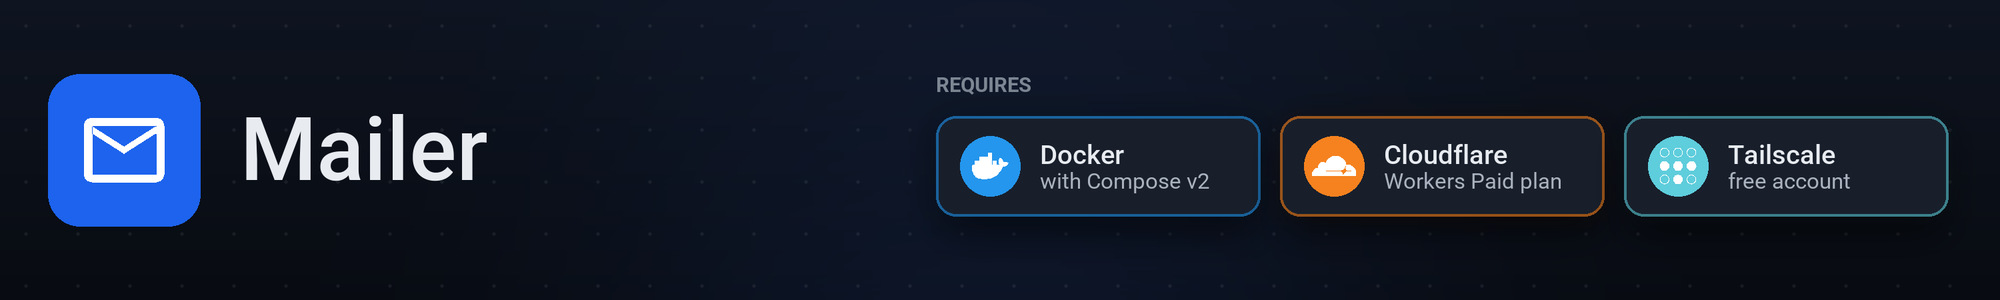
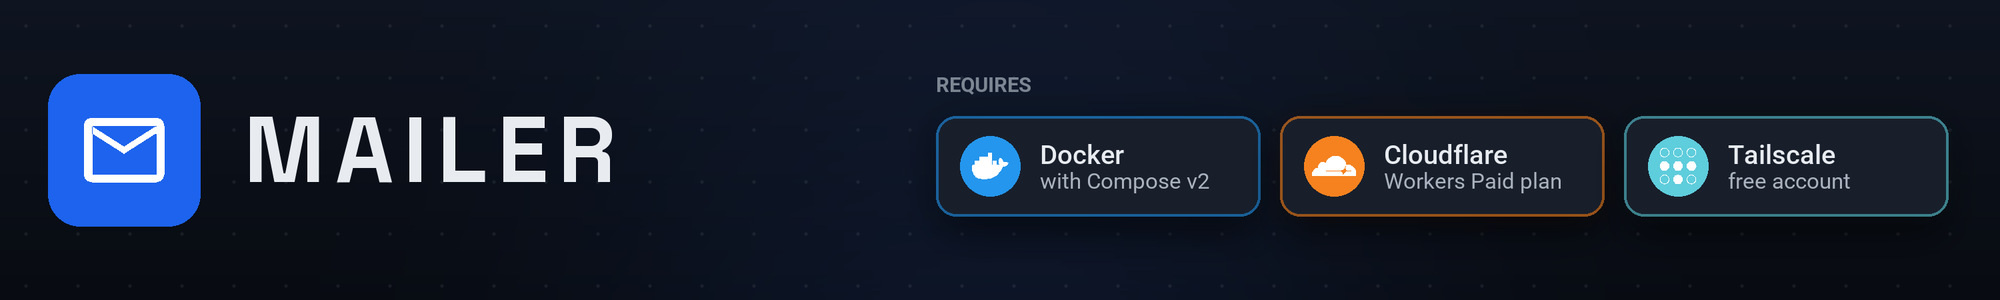
docs(readme): all-caps wordmark in the header, drop the tagline text

Changed region(s): [[0.124, 0.39, 0.31, 0.63]]

diff --git a/README.md b/README.md
@@ -1,7 +1,5 @@
 <img src="docs/images/header.jpg" width="100%" alt="Mailer. Requires Docker with Compose v2, a Cloudflare account on the Workers Paid plan, and a free Tailscale account.">
 
-Self-hosted mail, zero ports.
-
 <a href="docs/how-it-works.md"><img src="docs/images/how-it-works.jpg" width="100%" alt="How it works: scanners on the internet are refused on ports 25, 143 and 993 because every port on your network is closed. Senders reach Cloudflare Email Routing, which hands mail to Mailer through the tunnel. Mail apps connect through Tailscale Funnel on IMAP 443 and SMTP 8443, after autodiscover finds the settings through the tunnel. Replies go out through Cloudflare Email Sending to recipients, DKIM-signed."></a>
 
 <a href="docs/configuration.md#dashboard-access"><img src="docs/images/setup-and-access.jpg" width="100%" alt="Sets itself up: connecting Cloudflare once sets up Routing, the Worker, Sending, DKIM, DMARC and SPF for every domain on the account, including domains added later. Dashboard from anywhere: approved devices reach the dashboard sign-in, and a new browser waits with its code until an admin approves it."></a>
